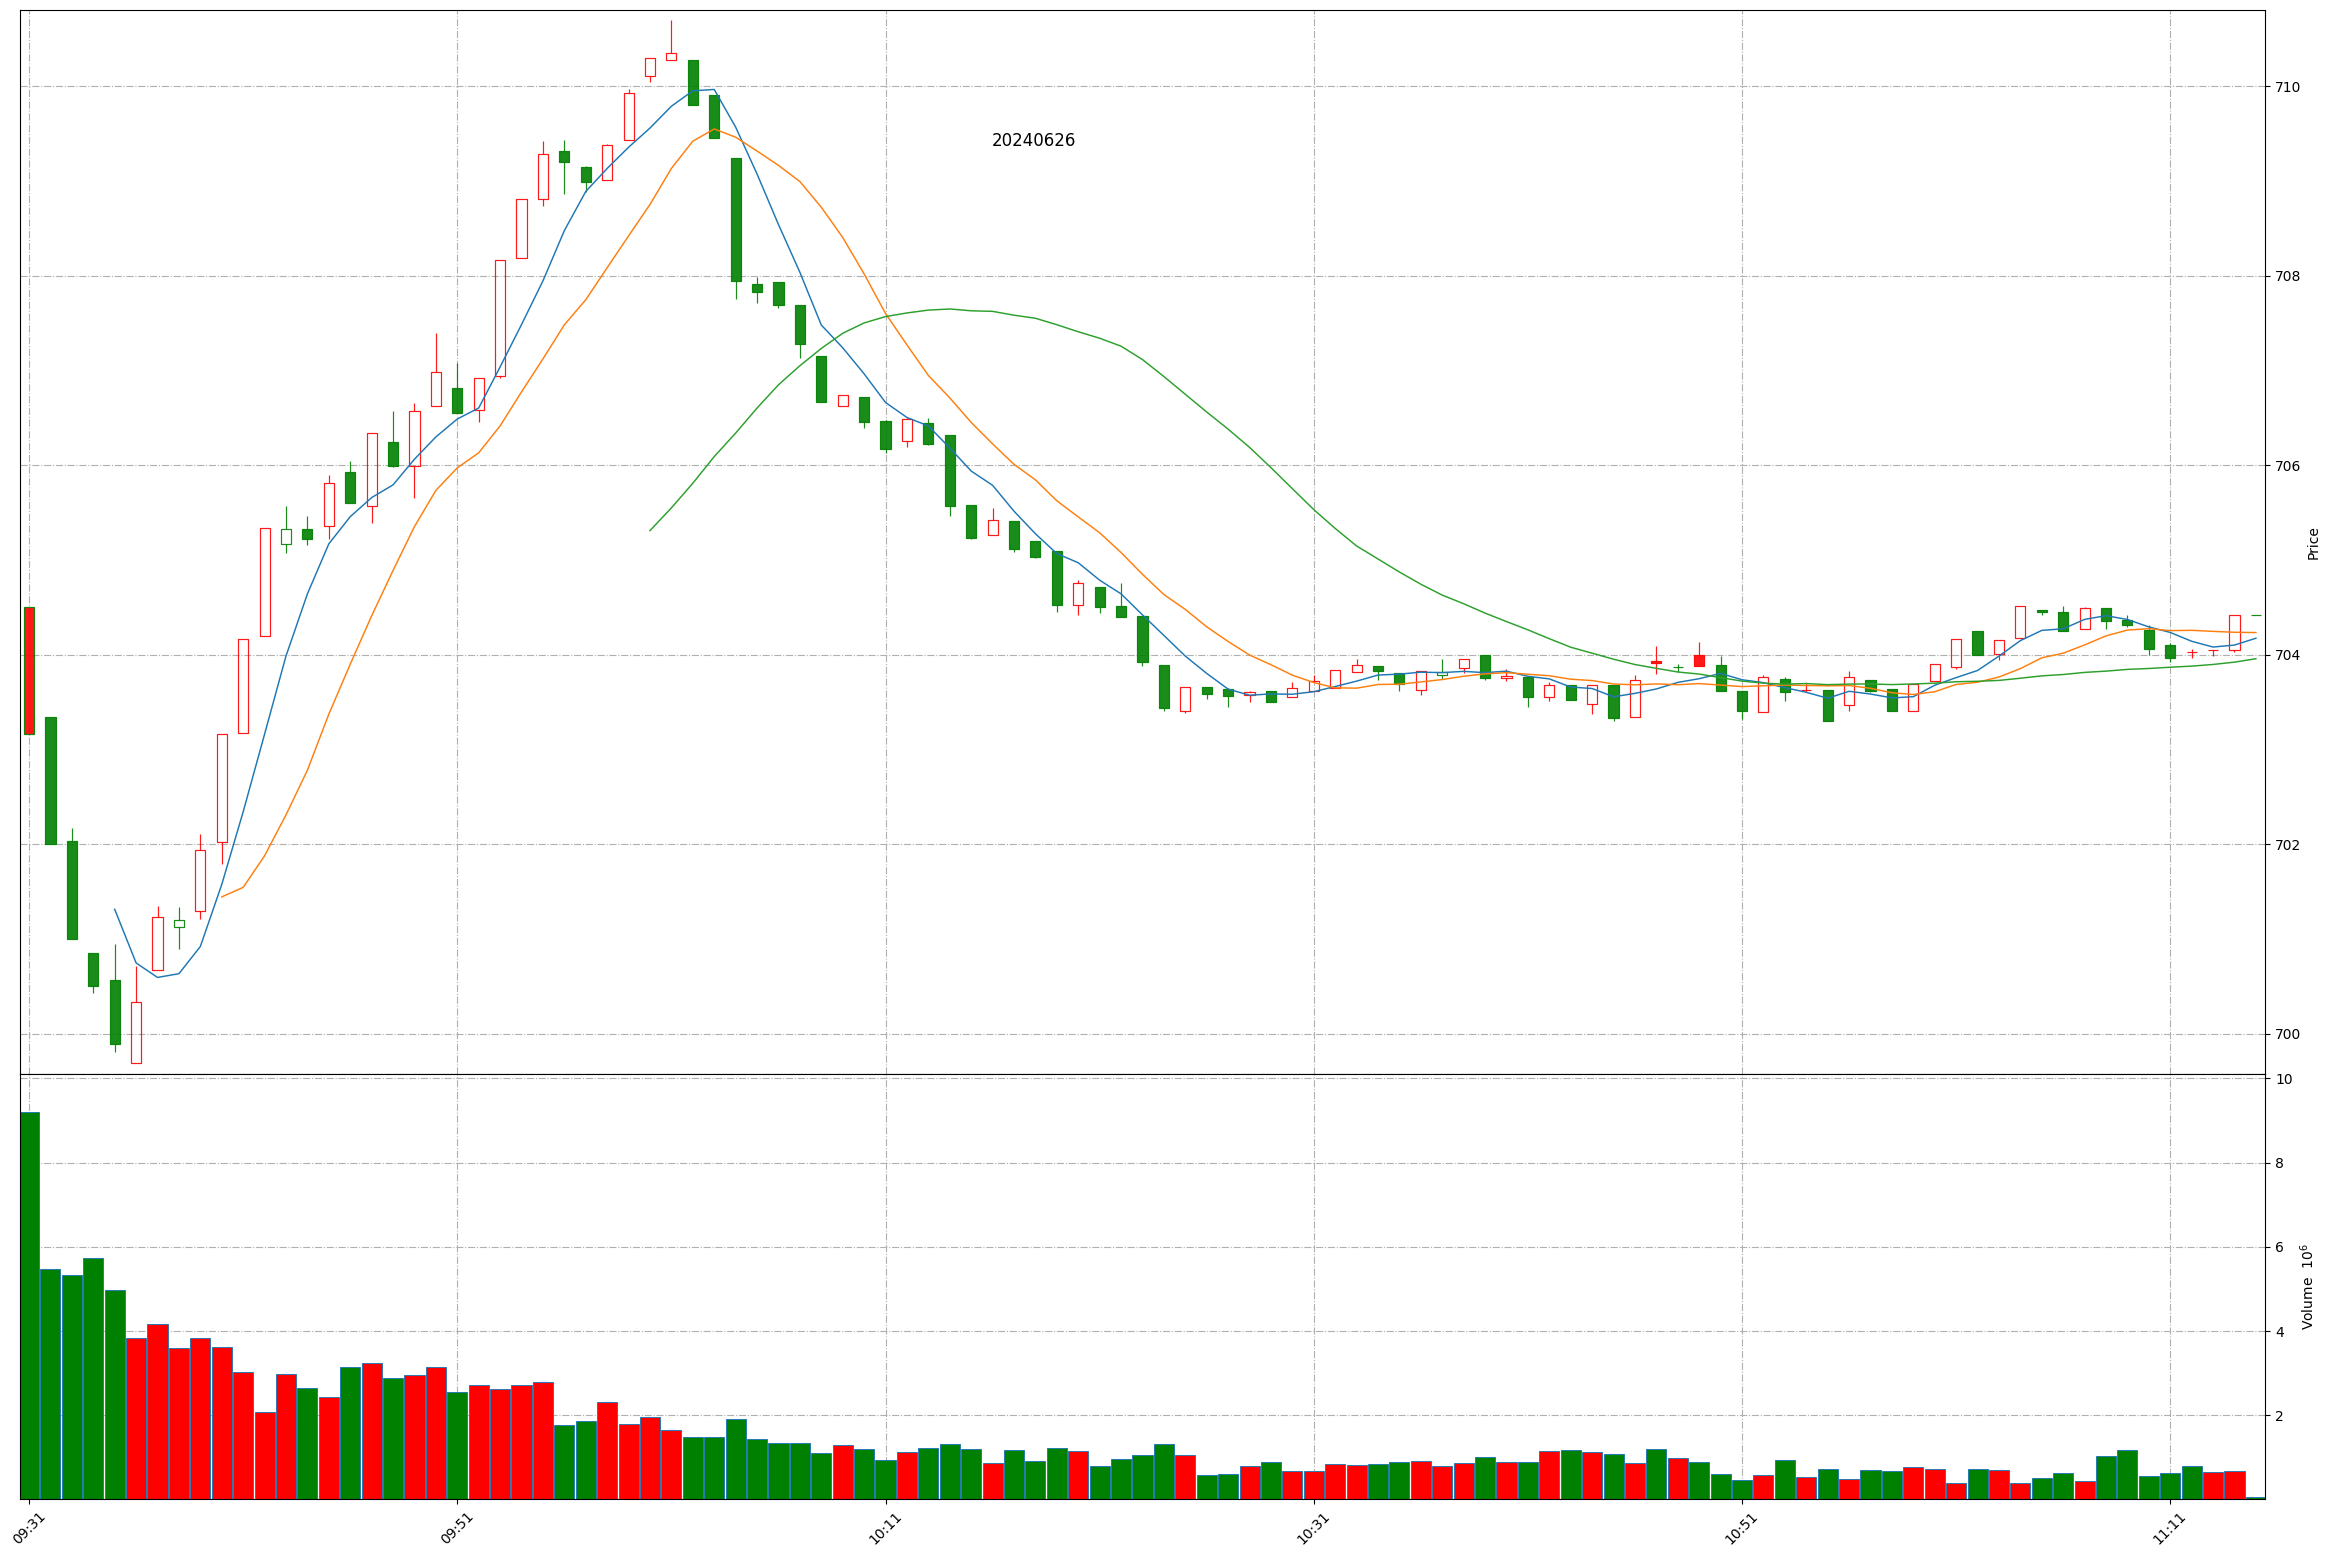
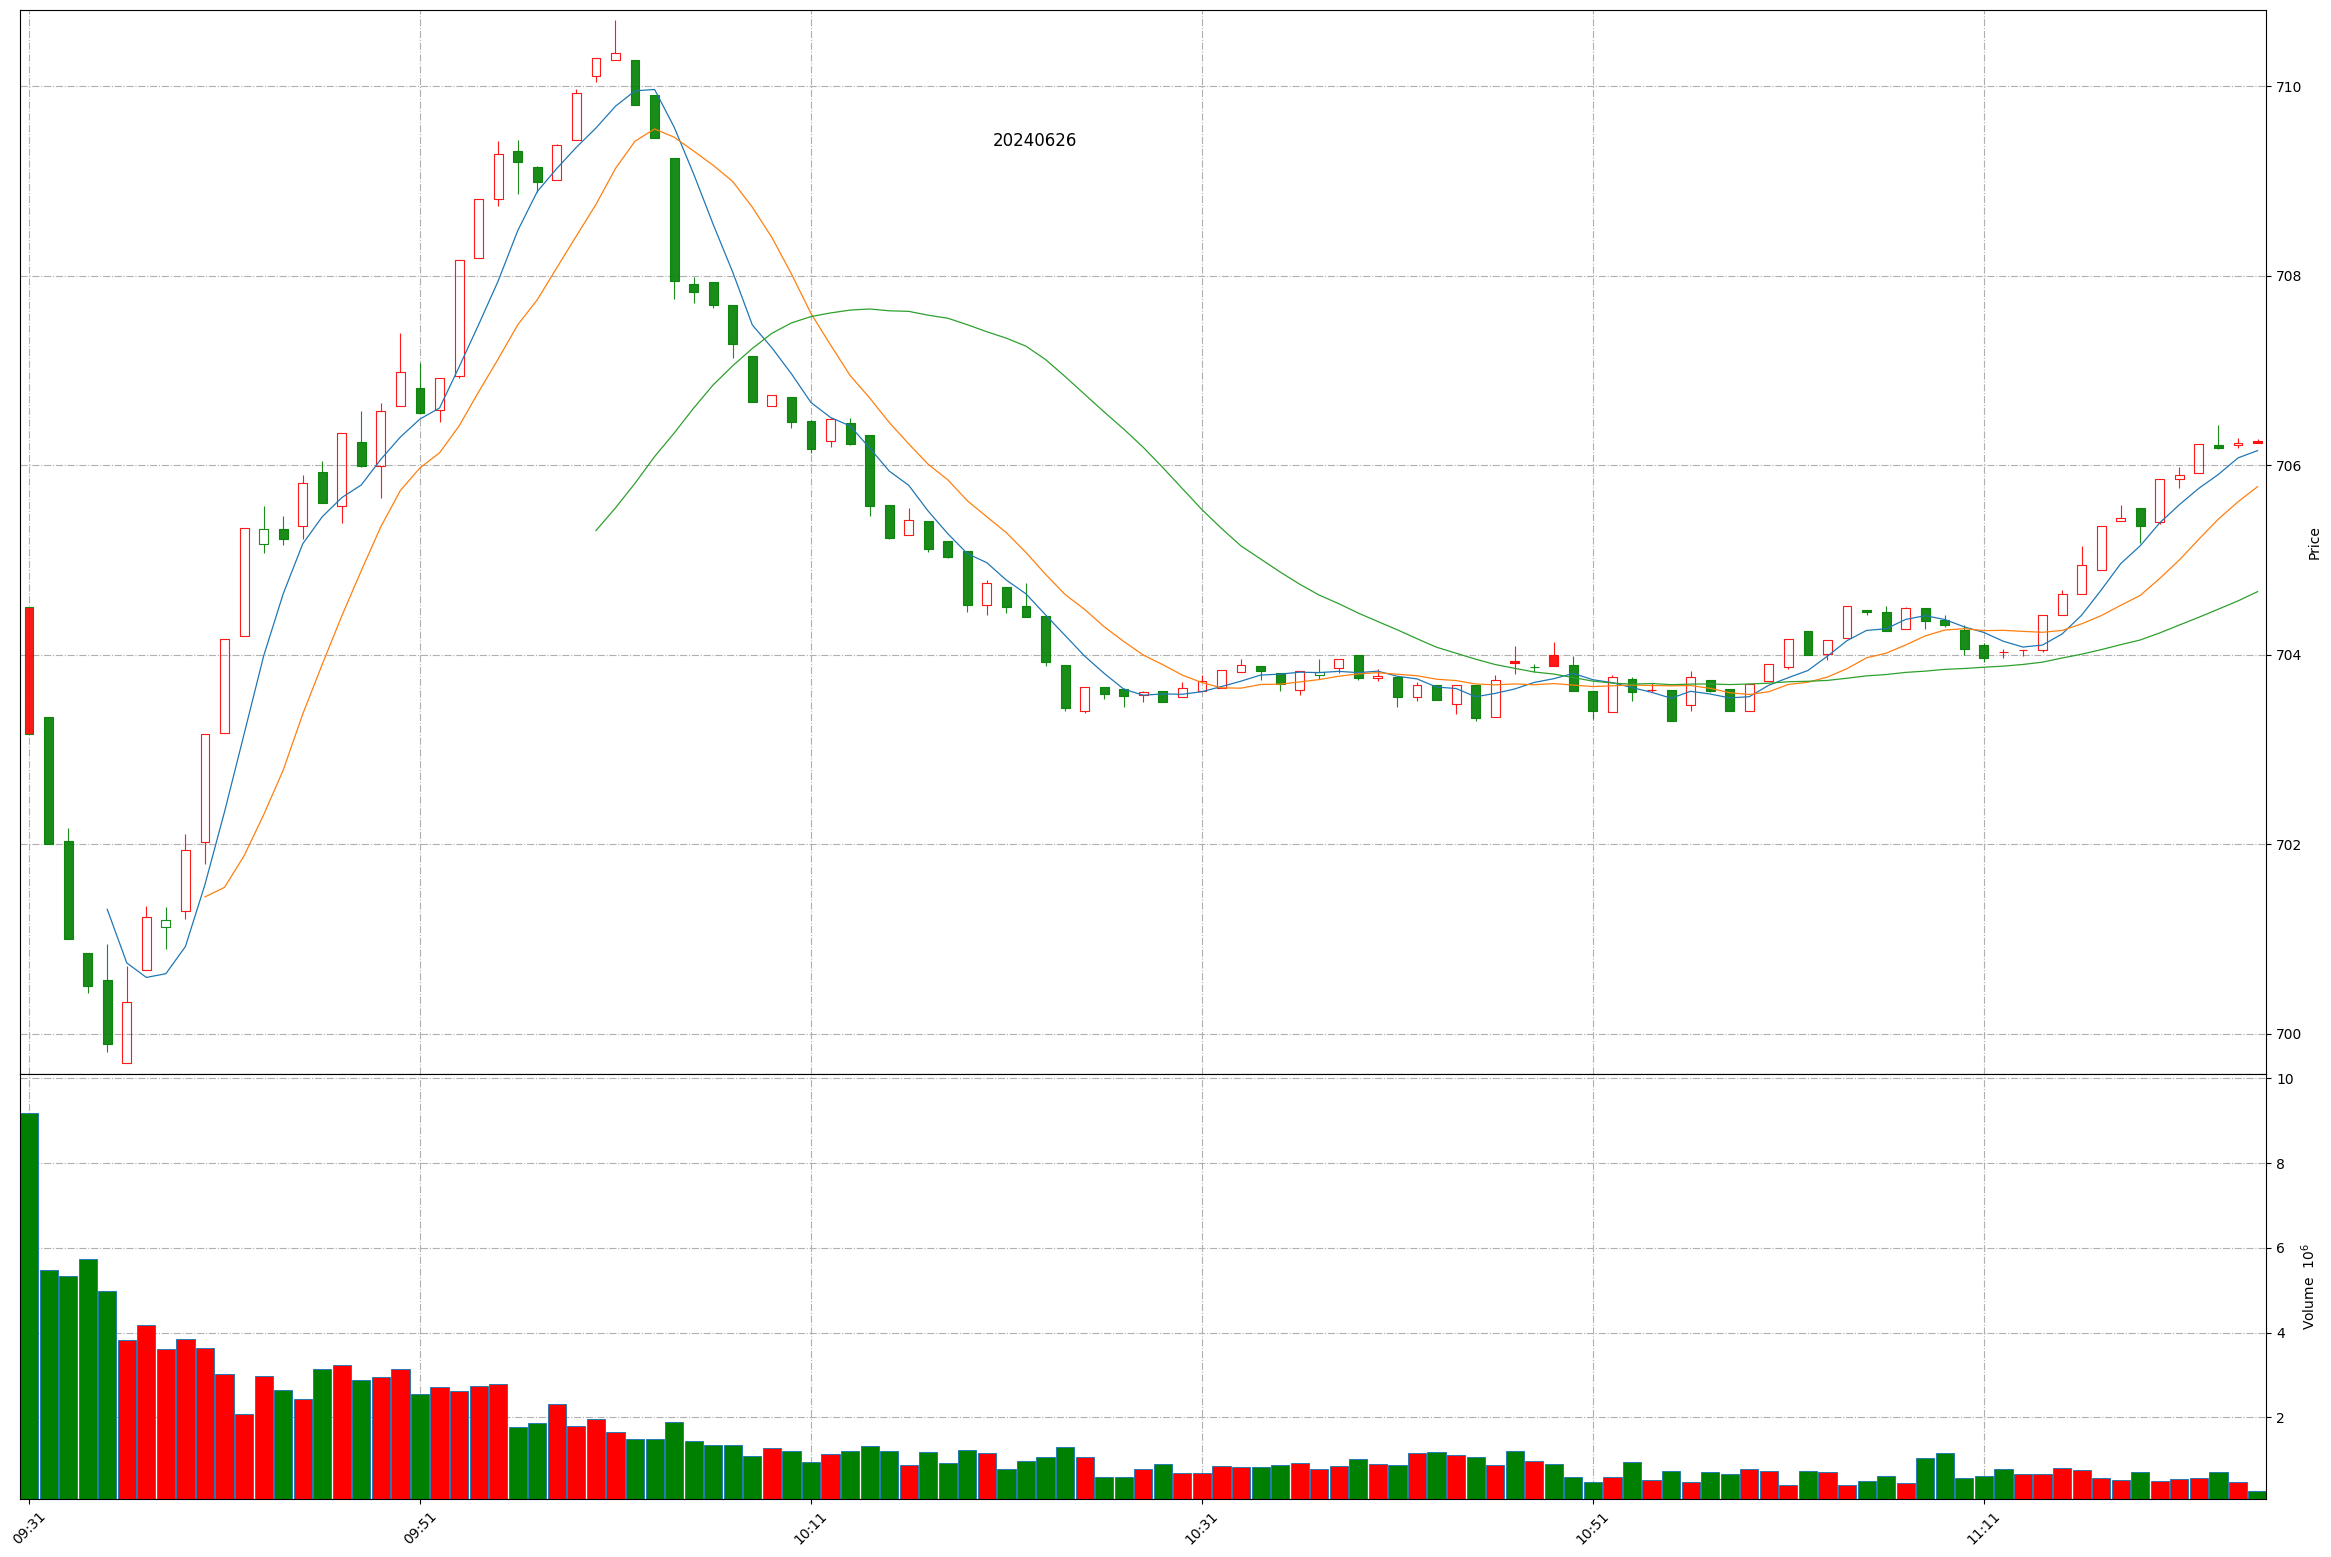
Github action update at 2024-06-26 11:24:46.

diff --git a/README.md b/README.md
@@ -1,11 +1,11 @@
 
 # Daily-A-share-market-quotes 每日 A 股指数（5min 更新）- 20240626
 
-### 上证指数 20240626 11:14
+### 上证指数 20240626 11:24
 ![](./fig/2024/6/20240626-sh000001.png)
 
-### 深证成指 20240626 11:14
+### 深证成指 20240626 11:24
 ![](./fig/2024/6/20240626-sz399001.png)
 
-### 北证50 20240626 11:14
+### 北证50 20240626 11:24
 ![](./fig/2024/6/20240626-bj899050.png)
